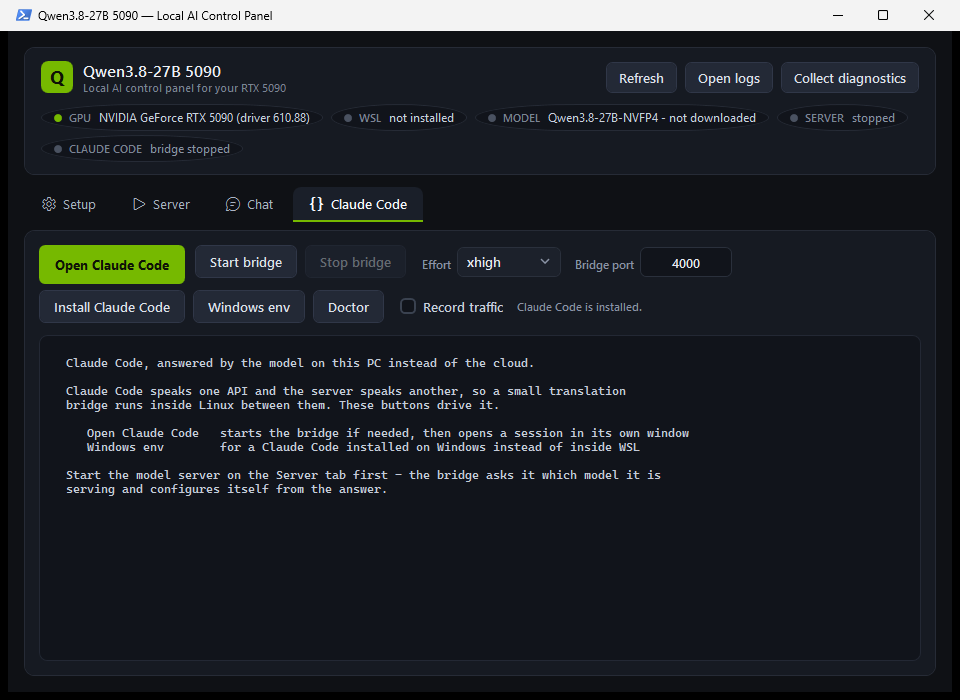
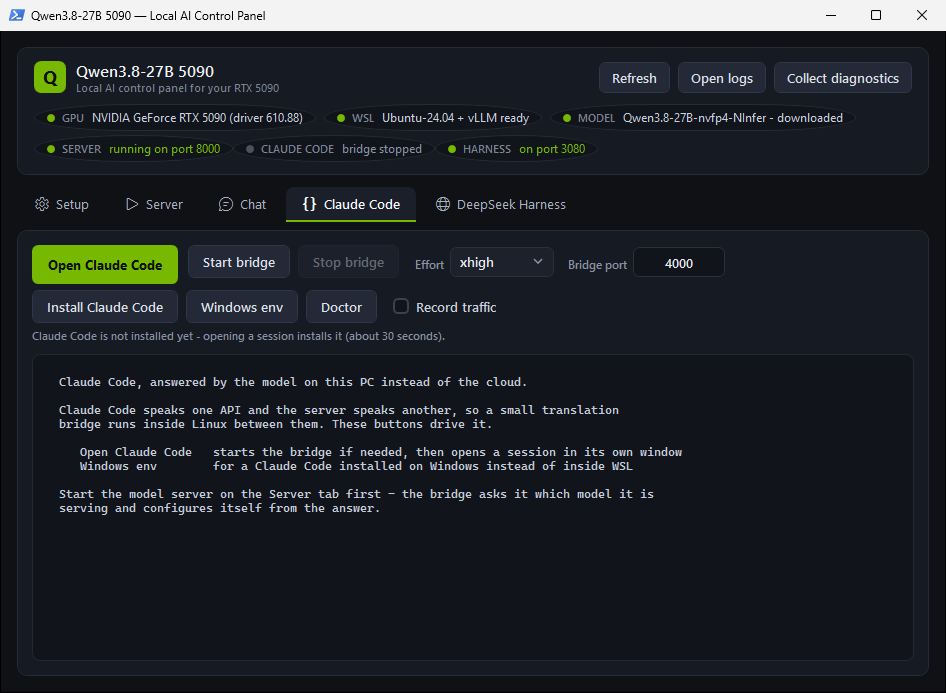
docs: fresh control-panel screenshots and the DeepSeek Harness tab in the README
New screenshots taken from the live app - all pills green, NInfer serving on 8000, harness up on 3080. The harness section now leads with the GUI tab and its Open harness button (with a screenshot) before the shell path, its full-guide link points at DEEPSEEK-HARNESS.md instead of CLAUDE-CODE.md, and the doc table gains the DEEPSEEK-HARNESS and NINFER rows. chat.png is kept - it shows a real conversation, which a fresh empty chat would not.

diff --git a/README.md b/README.md
@@ -27,9 +27,9 @@ already know, answered by the GPU in your own machine.
 
 **Unzip → double-click `Start Qwen 5090.cmd` → click Install. That's it.**
 
-<img src="app/docs/images/setup.png" alt="The Qwen 5090 control panel on first run: status pills across the top, and one Install / Repair button" width="820">
+<img src="app/docs/images/setup.png" alt="The Qwen 5090 control panel: status pills across the top, a model picker, and one Install / Repair button" width="820">
 
-<sub><em>First run. One button installs WSL2, Ubuntu, vLLM and the model.</em></sub>
+<sub><em>The control panel. One button installs WSL2, Ubuntu, the AI engine and the model.</em></sub>
 
 <br>
 
@@ -141,7 +141,7 @@ Two things worth being straight about:
 
 <table>
 <tr>
-<td width="50%"><img src="app/docs/images/server.png" alt="Server tab: the green SERVER pill reads running on port 8000, with vLLM startup output ending in Server is READY"></td>
+<td width="50%"><img src="app/docs/images/server.png" alt="Server tab: the green SERVER pill reads running on port 8000, with startup output ending in Server is READY"></td>
 <td width="50%"><img src="app/docs/images/chat.png" alt="Chat tab: a question and the model's reply, with its reasoning shown above the answer in dim italic"></td>
 </tr>
 <tr>
@@ -350,7 +350,18 @@ otherwise comes back as root, which breaks every script here.
 [DeepSeek Harness](https://github.com/deepseek-ai/deepseek-harness) (`dsh`) is
 DeepSeek's own open-source agent runtime, and it speaks the OpenAI API
 natively — so it needs no bridge at all, just a provider route. You work in a
-browser rather than a terminal, and it brings subagents and its own tool set:
+browser rather than a terminal, and it brings subagents and its own tool set.
+
+On the 5090 PC it is one button: start the model server, open the app's
+**DeepSeek Harness** tab, and click **Open harness** — it installs Node.js and
+the harness on first use (each with its own yes/no), starts it, and opens the
+Web UI in your browser.
+
+<div align="center">
+<img src="app/docs/images/deepseek-harness.png" alt="DeepSeek Harness tab: Open harness, Install harness, Re-read server and Doctor buttons, with the HARNESS pill green on port 3080" width="820">
+</div>
+
+The same thing from a shell — including a machine that is not the 5090:
 
 ```bash
 bash app/scripts/deepseek-harness.sh install
@@ -374,7 +385,7 @@ Expect a capable local assistant rather than a frontier one: well-scoped edits,
 refactors and file spelunking go fine; long multi-step planning is weaker, and
 it thinks for a few seconds before each reply (`QWEN_EFFORT=medium` trades some
 of that back). Full guide, settings and troubleshooting:
-**[app/docs/CLAUDE-CODE.md](app/docs/CLAUDE-CODE.md)**.
+**[app/docs/DEEPSEEK-HARNESS.md](app/docs/DEEPSEEK-HARNESS.md)**.
 
 ## For power users
 
@@ -580,6 +591,8 @@ app/                       everything under the hood:
 | **[TROUBLESHOOTING.md](app/docs/TROUBLESHOOTING.md)** | Install failures, GPU not found, out of memory, crashes |
 | **[PERFORMANCE.md](app/docs/PERFORMANCE.md)** | Measured throughput, context/speed trade-offs, tuning |
 | **[CLAUDE-CODE.md](app/docs/CLAUDE-CODE.md)** | The bridge, its settings, and what works versus what does not |
+| **[DEEPSEEK-HARNESS.md](app/docs/DEEPSEEK-HARNESS.md)** | The dsh agent runtime: install, routes, Web UI, headless mode |
+| **[NINFER.md](app/docs/NINFER.md)** | The NInfer backend: what it is faster at, knobs, build issues |
 | **[LINUX.md](app/docs/LINUX.md)** | Native Linux install, systemd, the 262K + MTP path |
 
 Still stuck? Click **Collect diagnostics** in the app — it puts a single ZIP of
